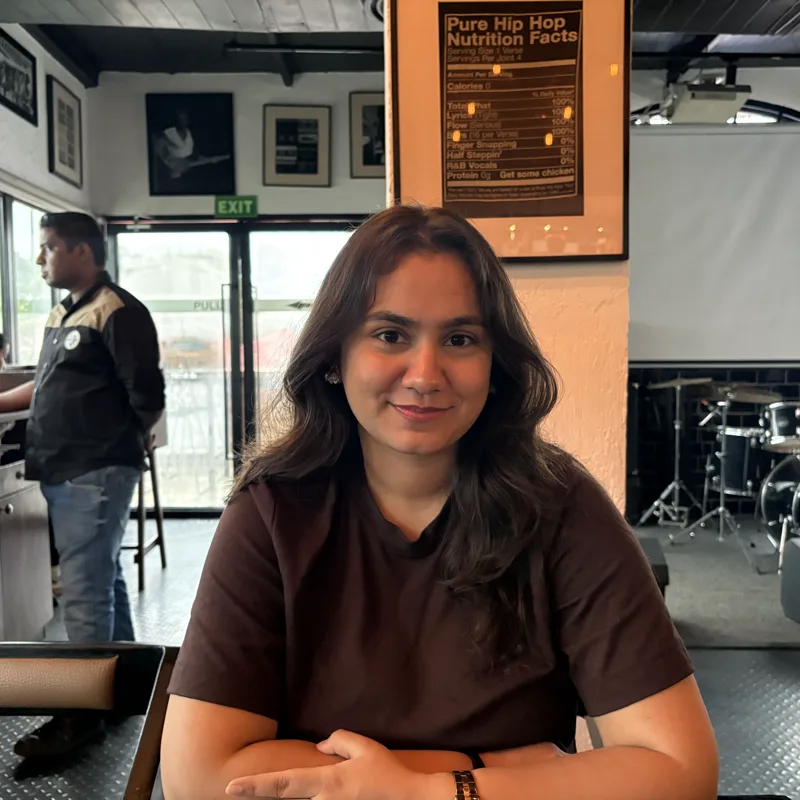
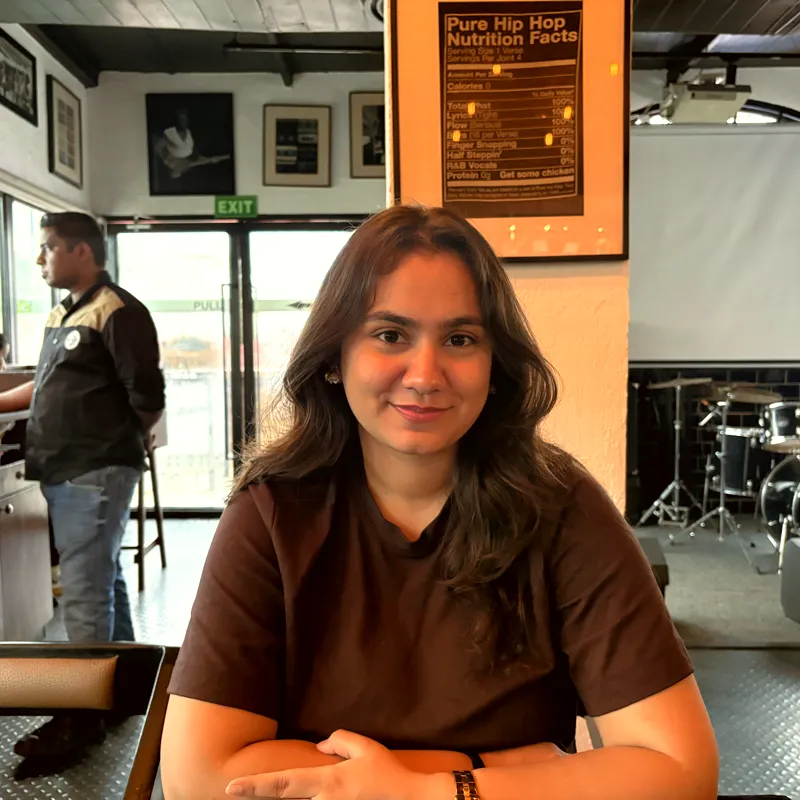
About: warmer photo with working water, ripple on Experience, case footer
Her photo regraded to match her hello page, the words layer no longer
blocks the pointer from it, the Experience box's letters ripple too, her
ripple and layout values (phone zoom and narrow-width gaps of their own),
and the case studies' footer words.

Claude-Session: https://claude.ai/code/session_01QTRgHYVT9DpXjD6YrcV1it

diff --git a/src/pages/About.jsx b/src/pages/About.jsx
@@ -2,7 +2,7 @@ import { useEffect, useRef } from 'react'
 import { ArrowUpRight } from 'lucide-react'
 import '@fontsource-variable/dm-sans/opsz-italic.css'
 import NavBar from '../components/nav/NavBar'
-import PageFooter from '../components/footer/PageFooter'
+import CaseFooter from '../components/case/CaseFooter'
 import { mountCaseMotion } from '../components/case/caseMotion'
 import { mountPhotoCaptions, mountCaptionPanel } from '../components/about/photoCaption'
 import { applyLayout, mountLayoutPanel } from '../components/about/aboutLayout'
@@ -30,6 +30,8 @@ const DESIGN_W = 1252       // her column, the frame sizes in aboutContent.js ar
 
 /** a run list as spans: plain words, wavy-underlined, or italic; with split, each letter gets its own span for the ripple */
 const Letters = ({ text }) => [...text].map((c, i) => (c === ' ' ? ' ' : <span key={i} className="rl">{c}</span>))
+// text split into letters for the ripple, read whole by screen readers
+const Rip = ({ text }) => <><span className="sr-only">{text}</span><span aria-hidden="true"><Letters text={text} /></span></>
 function Runs({ runs, split }) {
   return runs.map((r, i) => {
     const t = typeof r === 'string' ? r : r.t
@@ -64,6 +66,7 @@ const ROWS = GALLERY.map((row) => ({
 
 function About() {
   const page = useRef(null)
+  const top = useRef(null)
   const flow = useRef(null)
   const box = useRef(null)
   const gallery = useRef(null)
@@ -74,8 +77,8 @@ function About() {
     applyLayout(page.current)
     const stopMotion = mountCaseMotion(page.current)
     const stopCaptions = mountPhotoCaptions(gallery.current)
-    // the letters ripple away from the pointer (her hello page), the intro's and the painted lines'
-    const ripple = mountRipple(flow.current)
+    // the letters ripple away from the pointer (her hello page): the intro's, the painted lines', the Experience box's
+    const ripple = mountRipple(top.current)
     const stopFlow = mountTextFlow(flow.current, box.current, PARAGRAPHS, ripple.refresh)
     // once the rise-in has settled, measure the letters where they rest
     const settle = setTimeout(ripple.refresh, 900)
@@ -90,7 +93,7 @@ function About() {
     <main className="about-page" ref={page}>
       <div className="ab-wrap">
 
-        <div className="ab-top">
+        <div className="ab-top" ref={top}>
           {/* the words flow round her photo and the box (textFlow.js); until the fonts are in, and for screen
               readers, the paragraphs below are the real text */}
           <div className="ab-flow" ref={flow} data-rise>
@@ -112,18 +115,18 @@ function About() {
 
           <aside className="ab-resume-box" ref={box} aria-labelledby="ab-exp">
             <Corner at="tl" seed={11} /><Corner at="tr" seed={13} /><Corner at="bl" seed={17} /><Corner at="br" seed={19} />
-            <h2 id="ab-exp">Experience</h2>
+            <h2 id="ab-exp"><Rip text="Experience" /></h2>
             <ol className="ab-jobs">
               {EXPERIENCE.map(j => (
                 <li key={j.role + j.dates}>
-                  <h3>{j.role}{j.at && <> @{j.at}</>}</h3>
-                  <p>{j.dates}</p>
+                  <h3><Rip text={j.at ? `${j.role} @${j.at}` : j.role} /></h3>
+                  <p><Rip text={j.dates} /></p>
                 </li>
               ))}
             </ol>
             {/* her Google Drive file, in a new tab (RESUME_URL in aboutContent.js) */}
             <a className="ab-resume" href={RESUME_URL || undefined} target="_blank" rel="noreferrer">
-              my resume<ArrowUpRight className="ab-resume-icon" aria-hidden="true" strokeWidth={1.5} />
+              <Rip text="my resume" /><ArrowUpRight className="ab-resume-icon" aria-hidden="true" strokeWidth={1.5} />
               <span className="sr-only"> (opens in a new tab)</span>
             </a>
           </aside>
@@ -147,7 +150,8 @@ function About() {
         </section>
 
       </div>
-      <PageFooter />
+      {/* the case studies' words (hers, 2026-11-22); a teal scene in place of the purple garden is to come */}
+      <CaseFooter />
     </main>
     </>
   )

diff --git a/src/components/about/aboutLayout.js b/src/components/about/aboutLayout.js
@@ -10,18 +10,21 @@
 export const LAYOUT = {
   meSize: 174,        // px, her photo's width on desktop (height keeps her frame's 164 : 176)
   meSizePhone: 102,   // px, on phones
-  meZoom: 1.46,       // how far the photo is zoomed in (1 = the whole picture)
+  meZoom: 1.36,       // how far the photo is zoomed in on desktop (1 = the whole picture)
+  meZoomPhone: 1.46,  // on phones
   meX: 62,            // % across: the point the zoom centres on (her face)
   meY: 44,            // % down
   introTop: 36,       // px from the top of her photo's brackets to "Hi!"
   wordsGap: 29,       // px from the intro to the first paragraph
   paraGap: 16,        // px between paragraphs (her Figma)
   throwTop: 80,       // px from the words and the Experience box down to {visuals from my journey so far} (hers: 56 looked congested)
-  throwGap: 28,       // px from that title to the first group heading
+  throwGap: 24,       // px from that title to the first group heading
   labelGap: 12,       // px from a group heading to its photos
-  groupGap: 78,       // px between photo groups
-  rippleRadius: 80,   // px, how far from the pointer letters are nudged (her hello page)
-  ripplePush: 7,      // px, how far the nearest letters move
+  groupGap: 90,       // px between photo groups
+  throwGapNarrow: 28, // the same two between 601 and 840 wide, the photos two to a row (hers, 2026-11-22)
+  groupGapNarrow: 78,
+  rippleRadius: 200,  // px, how far from the pointer letters are nudged (her hello page had 80)
+  ripplePush: 6.5,    // px, how far the nearest letters move
 }
 
 // each gallery photo's fit inside the frame she drew: zoom (1 = just fills it) and the point it centres on (%).
@@ -42,7 +45,7 @@ export const PHOTO_FIT = {
 }
 const fit = (id) => (PHOTO_FIT[id] ??= { zoom: 1, x: 50, y: 50 })
 
-const KEY = 'about-layout-v6'
+const KEY = 'about-layout-v7'
 if (new URLSearchParams(location.search).has('about')) {
   try {
     const saved = JSON.parse(localStorage.getItem(KEY)) || {}
@@ -53,13 +56,14 @@ if (new URLSearchParams(location.search).has('about')) {
 
 export function photoFit(id) { return fit(id) }
 
-const px = ['meSize', 'meSizePhone', 'introTop', 'wordsGap', 'paraGap', 'throwTop', 'throwGap', 'labelGap', 'groupGap']
+const px = ['meSize', 'meSizePhone', 'introTop', 'wordsGap', 'paraGap', 'throwTop', 'throwGap', 'labelGap', 'groupGap', 'throwGapNarrow', 'groupGapNarrow']
 const kebab = (k) => k.replace(/[A-Z]/g, c => `-${c.toLowerCase()}`)
 
 export function applyLayout(root) {
   const L = LAYOUT, s = root.style
   px.forEach(k => s.setProperty(`--${kebab(k)}`, `${L[k]}px`))
   s.setProperty('--me-zoom', L.meZoom)
+  s.setProperty('--me-zoom-phone', L.meZoomPhone)
   s.setProperty('--me-x', `${L.meX}%`)
   s.setProperty('--me-y', `${L.meY}%`)
   root.querySelectorAll('.ab-frame[data-id]').forEach((el) => {
@@ -79,6 +83,7 @@ export function mountLayoutPanel(root, onChange) {
     ['meSize', 'my photo width', 100, 240, 2],
     ['meSizePhone', 'my photo (phone)', 72, 180, 2],
     ['meZoom', 'my photo zoom', 1, 2.5, 0.01],
+    ['meZoomPhone', 'my photo zoom (phone)', 1, 2.5, 0.01],
     ['meX', 'zoom on, across %', 0, 100, 1],
     ['meY', 'zoom on, down %', 0, 100, 1],
     ['introTop', '“Hi!” down from top', 0, 80, 1],
@@ -88,6 +93,8 @@ export function mountLayoutPanel(root, onChange) {
     ['throwGap', 'gallery title gap', 8, 64, 1],
     ['labelGap', 'heading to photos', 8, 48, 1],
     ['groupGap', 'between groups', 16, 120, 2],
+    ['throwGapNarrow', 'title gap (601-840)', 8, 64, 1],
+    ['groupGapNarrow', 'groups (601-840)', 16, 120, 2],
     ['rippleRadius', 'letter ripple reach', 20, 200, 2],
     ['ripplePush', 'letter ripple push', 0, 20, 0.5],
   ]

diff --git a/src/pages/About.css b/src/pages/About.css
@@ -62,10 +62,12 @@ html:has(.about-page),html:has(.about-page) body{background:var(--color-white-de
 .ab-flow.flowing .ab-me-group{position:absolute;left:0;top:0;float:none;margin:0}
 .ab-flow.flowing .ab-intro{position:absolute;top:var(--intro-top, 35px);left:var(--intro-left);right:0;padding:0}
 .ab-flow.flowing .ab-paras{position:absolute;width:1px;height:1px;padding:0;margin:-1px;overflow:hidden;clip-path:inset(50%);white-space:nowrap}
-.ab-lines{position:absolute;inset:0}
+/* the lines layer lies over her photo too: only the lines themselves take the pointer, so the water gets it */
+.ab-lines{position:absolute;inset:0;pointer-events:none}
+.ab-line{pointer-events:auto}
 .ab-line{position:absolute;left:0;top:0;white-space:pre;will-change:transform}
 /* a letter the ripple nudges (ripple.js): relative offsets, so her wavy underlines go with it */
-.ab-flow .rl{position:relative}
+.about-page .rl{position:relative}
 .ab-line[hidden]{display:none}
 .ab-probe{visibility:hidden}
 .ab-flow:not(.flowing) .ab-lines{display:none}
@@ -155,7 +157,9 @@ html:has(.about-page),html:has(.about-page) body{background:var(--color-white-de
 }
 /* phones and narrow windows: each group's photos two to a row, the groups one under another (Rachel Chen's layout) */
 @media (max-width:840px){
-  .ab-row{flex-direction:column;row-gap:var(--group-gap, 56px)}
+  .ab-gallery{gap:var(--group-gap-narrow, 78px)}
+  .ab-gallery > .ab-label + *{margin-top:calc(var(--throw-gap-narrow, 28px) - var(--group-gap-narrow, 78px))}
+  .ab-row{flex-direction:column;row-gap:var(--group-gap-narrow, 78px)}
   .ab-group{flex-basis:auto;width:100%}
   .ab-photos{flex-wrap:wrap;gap:16px}
   .ab-print{width:calc(50% - 8px) !important}
@@ -166,7 +170,7 @@ html:has(.about-page),html:has(.about-page) body{background:var(--color-white-de
 @media (max-width:600px){
   .about-page{--side:20px;padding-top:56px}
   .ab-wrap{margin-bottom:160px}
-  .ab-flow{--me-size:var(--me-size-phone, 114px);--intro-left:calc(var(--me-size) + 28px)}
+  .ab-flow{--me-size:var(--me-size-phone, 102px);--me-zoom:var(--me-zoom-phone, 1.46);--intro-left:calc(var(--me-size) + 28px)}
   .ab-me-group{margin-right:12px}
   .ab-flow.flowing .ab-intro,.ab-intro{top:12px;padding-top:0}
   .ab-flow:not(.flowing) .ab-intro{padding-top:12px}

diff --git a/src/components/about/WaterPhoto.jsx b/src/components/about/WaterPhoto.jsx
@@ -137,7 +137,7 @@ export default function WaterPhoto({ src, alt }) {
 
     // drawn at the zoom it's shown at (the CSS scale from ?about), so it stays sharp
     const resize = () => {
-      const k = Math.min(devicePixelRatio || 1, 2) * Math.max(1, LAYOUT.meZoom)
+      const k = Math.min(devicePixelRatio || 1, 2) * Math.max(1, LAYOUT.meZoom, LAYOUT.meZoomPhone)
       const w = Math.max(1, Math.round(canvas.clientWidth * k)), h = Math.max(1, Math.round(canvas.clientHeight * k))
       if (canvas.width !== w || canvas.height !== h) { canvas.width = w; canvas.height = h; gl.viewport(0, 0, w, h) }
       updateCover()

diff --git a/src/components/case/CaseFooter.jsx b/src/components/case/CaseFooter.jsx
@@ -3,7 +3,7 @@ import { Link } from '../footer/sayHi'
 
 /**
  * The footer under every case study: the same words for all of them, so nothing in it names one
- * (hers, 2026-11-20). The garden stays, as on Work.
+ * (hers, 2026-11-20); the About page uses it too (2026-11-22). The garden stays, as on Work.
  */
 function CaseFooter() {
   return (

diff --git a/CLAUDE.md b/CLAUDE.md
@@ -93,6 +93,7 @@ public/motif.svg                   tiled page background
 - **Her rough layout (2026-11-22, Figma 419:14) is now the design**, replacing the first and second looks (the taped, tilted print and the bordered Experience box are gone):
   - Her photo 164 x 176 (zoom / focus in `?about`) inside two hand-drawn teal viewfinder brackets (top right, bottom left), "Hi!" over "I'm ~Lavanya~ and I'm a product designer." (Desktop/H8 36) 13 right of the brackets and 35 down.
   - **The words flow** (`textFlow.js`, Pretext `@chenglou/pretext` pinned 1.0.0, the rich-inline API): from the intro's left edge beside the photo, then across, stopping 24 short of the Experience box, whose heading lines up with the second paragraph (the box sits 20 above it). Pretext breaks the lines and the page paints each one, so on desktop **the line under the pointer turns teal/pressed, one line at a time** (120ms, after Pretext's dynamic-layout demo), and her teal wriggles on that line turn grey, the inverse (hers, 2026-11-22). A round space opening round the pointer ("the cursor moulded effect") was built and dropped the same day: it made the words hard to read. Pretext measures on a canvas, which can't take the site's opsz 14, so widths are corrected by a DOM / canvas ratio plus a 1% margin; the real paragraphs stay in the DOM (sr-only) for screen readers and as the float-based fallback until fonts load. The box drops below the words at 960 and under.
+  - Later the same day (hers): her photo regraded warmer and brighter to match the hello page's copy (ffmpeg eq + colorbalance baked into `public/about/me.webp` from the original), the ripple also on the Experience box (`Rip` in About.jsx keeps a whole copy for screen readers), ripple reach 200 / push 6.5, phone photo 102 at zoom 1.46 (desktop 174 at 1.36), gallery gaps 24 / 90 on desktop and 28 / 78 between 601 and 840 (phones keep 24 / 32). The words layer lets the pointer through to her photo. Footer: the case studies' `CaseFooter` words; a teal scene in place of the purple garden is to come (she is finding a reference).
   - **From her hello page** (`D:hello-page`, the intro page she made for X, 2026-11-22: "the effect on hover on photo and text"): the letters of the intro and the words ripple away from the pointer (`ripple.js`, her rippleEngine: within `rippleRadius` 80, up to `ripplePush` 7, both in `?about`; letters are `.rl` spans moved by relative offsets so the wavy underlines travel with them), and her photo ripples like water (`WaterPhoto.jsx`, her WaterImage WebGL shader with the same drop values; a faint drop every 1.1s on its own, a finger drag ripples it on phones; the ?about zoom stays a CSS transform on the canvas, drawn at that zoom; paused off screen; reduced motion shows the plain photo). Desktop only for the letters.
   - Wavy teal/pressed underlines where she drew them (Lavanya, "I was curious", "I love design", the Rubin quote), the book title italic (opsz 9). Copy lives as run lists in `aboutContent.js`.
   - Experience: no border, four hand-drawn brackets, padding 18, 12 from the heading to the jobs and 12 above "my resume" (hers, 2026-11-22), "Experience" Cormorant Medium 24 grey, titles H5 black on one line ("Product Designer @Roadcast", her spelling), "my resume" DM Sans Light 16 grey underlined at the right.
